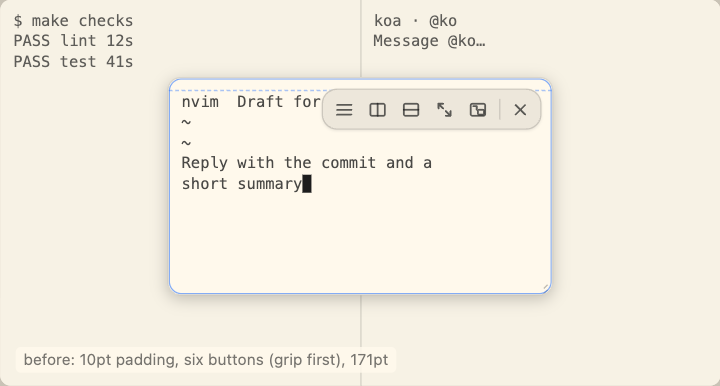
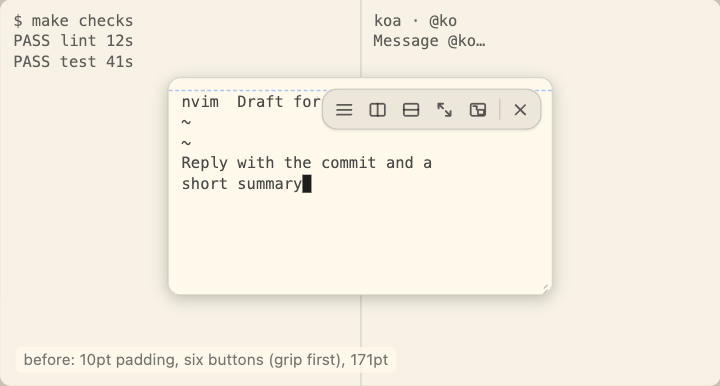
Floats draw no focus stroke
A float's window edge is its border, as a sole tiled pane draws none. A key float is pure paper with a solid cursor; every other float, also one under its own sheet, keeps the 45% overlay and a hollow cursor.

Changed region(s): [[0.2444, 0.1865, 0.7639, 0.2176], [0.7333, 0.7461, 0.7639, 0.7772]]

diff --git a/app/design/floats/mockup.html b/app/design/floats/mockup.html
@@ -18,7 +18,7 @@ p{max-width:820px;margin:0 0 10px;color:color-mix(in srgb,var(--fg) 75%,transpar
 .tiled>div{flex:1;background:var(--shift);position:relative;font:12px/16px ui-monospace,Menlo,monospace;color:color-mix(in srgb,var(--fg) 70%,transparent);padding:8px 10px;white-space:pre}
 .tiled>div+div{border-left:1px solid var(--edge)}
 .float{position:absolute;width:300px;height:170px;background:var(--bg);border:1px solid var(--edge);border-radius:10px;box-shadow:var(--shadow);box-sizing:border-box;overflow:hidden}
-.float.key::after{content:"";position:absolute;inset:0;border:1px solid color-mix(in srgb,var(--accent) 50%,transparent);border-radius:10px;pointer-events:none}
+/* a float draws no focus stroke (user, 2026-11-21): key is pure paper and a solid cursor, nothing more */
 .float.inactive .paper{background:color-mix(in srgb,var(--bg) 100%,transparent)}
 .float.inactive::before{content:"";position:absolute;inset:0;background:color-mix(in srgb,var(--bg) 45%,transparent);z-index:3;border-radius:10px}
 .pad{position:absolute;left:0;right:0;top:0;height:22px}
@@ -127,7 +127,7 @@ short summary<span class="cursor"></span></div><div class="handle"><i></i><i></i
 ~
 ~
 <span class="cursor hollow"></span></div><div class="handle"><i></i><i></i></div></div>
-<div class="cap">not key: the 45% overlay, hollow cursor, no stroke (section E)</div></div>
+<div class="cap">not key: the 45% overlay, hollow cursor (section E); key: pure paper, solid cursor, no stroke</div></div>
 </div>
 
 <h2>3 · Docking by drag: Option over a tiled pane of the float's own window</h2>

diff --git a/app/design/floats/NOTES.md b/app/design/floats/NOTES.md
@@ -101,8 +101,9 @@ What changes visibly:
 - **Focus.** The main window stays the main window (its title bar and
   traffic lights active) while a float window is key: the float is
   a non-activating child that can become key. When the float is key:
-  its pane is the active pane, with the 1pt accent focus stroke and a
-  solid cursor; the main window's tiled panes are all unfocused
+  its pane is the active pane, with a solid cursor (and, until
+  2026-11-21, the 1pt accent focus stroke: a float draws none now,
+  section E "The paper"); the main window's tiled panes are all unfocused
   (hollow cursor, no stroke, the 3% shifted paper, also on a sole
   tiled pane: user, 2026-11-20, section E "The paper"), and the
   other floats keep their 45% inactive overlay. When the main window
@@ -291,16 +292,20 @@ parent, minimise and Space for free; each is now a rule of ours.
 - **The paper** (user, 2026-11-20; replaces "no 3% shift" in
   section B and the same in docs/design-app.md "Focus treatment").
   One rule: the focused pane is the pane of the key window among
-  Kido's, and it alone has the pure paper, the stroke and the solid
-  cursor; every other pane is unfocused. An unfocused tiled pane has
+  Kido's, and it alone has the pure paper and the solid cursor, and
+  the stroke if it is a tiled pane among several; every other pane
+  is unfocused. An unfocused tiled pane has
   the 3% shifted paper, no stroke and a hollow cursor, so while a
   float is key every tiled pane of the main window is shifted, a
   sole tiled pane too (the single-pane exception of "Focus
   treatment" holds only while the main window is key, when that pane
-  is the focused one). A float's paper is never shifted: a float is
-  pure with the stroke while key, and pure under its 45%
-  theme-background overlay while not key (the main window key, or
-  another float). A koa page follows its pane's paper through
+  is the focused one). A float draws no focus stroke, ever (user,
+  2026-11-21): it is alone in its window, as a sole tiled pane is,
+  and its window edge is its border. A float's paper is never
+  shifted: a key float is pure paper, solid cursor, no stroke, no
+  overlay; a float that is not key (the main window key, or another
+  float) is pure paper under its 45% theme-background overlay,
+  hollow cursor, no stroke. A koa page follows its pane's paper through
   `--ko-bg`, so the page of a tiled koa pane dims while its editor
   float is key. A sheet or panel over a Kido window (the close
   confirmation of section D, a save panel, the command palette,
@@ -308,8 +313,10 @@ parent, minimise and Space for free; each is now a rule of ours.
   window and returns key to the float: it counts for the window it
   took key from) counts as that
   window being key for the paper, the stroke and the overlay: a
-  sheet on a float keeps the float pure with the stroke and the
-  tiled panes shifted; a sheet on the main window keeps its active
+  sheet on a float keeps the float's paper pure (no stroke, as
+  never) under section D's dim, which is the same 45% treatment, so
+  a float under its own sheet looks like a not-key float, and the
+  tiled panes stay shifted; a sheet on the main window keeps its active
   tiled pane pure with the stroke. Only the cursor follows the key
   panel, hollow under a sheet as today. When no Kido window and no
   sheet of one is key, the not-key rule as today: no pane is
